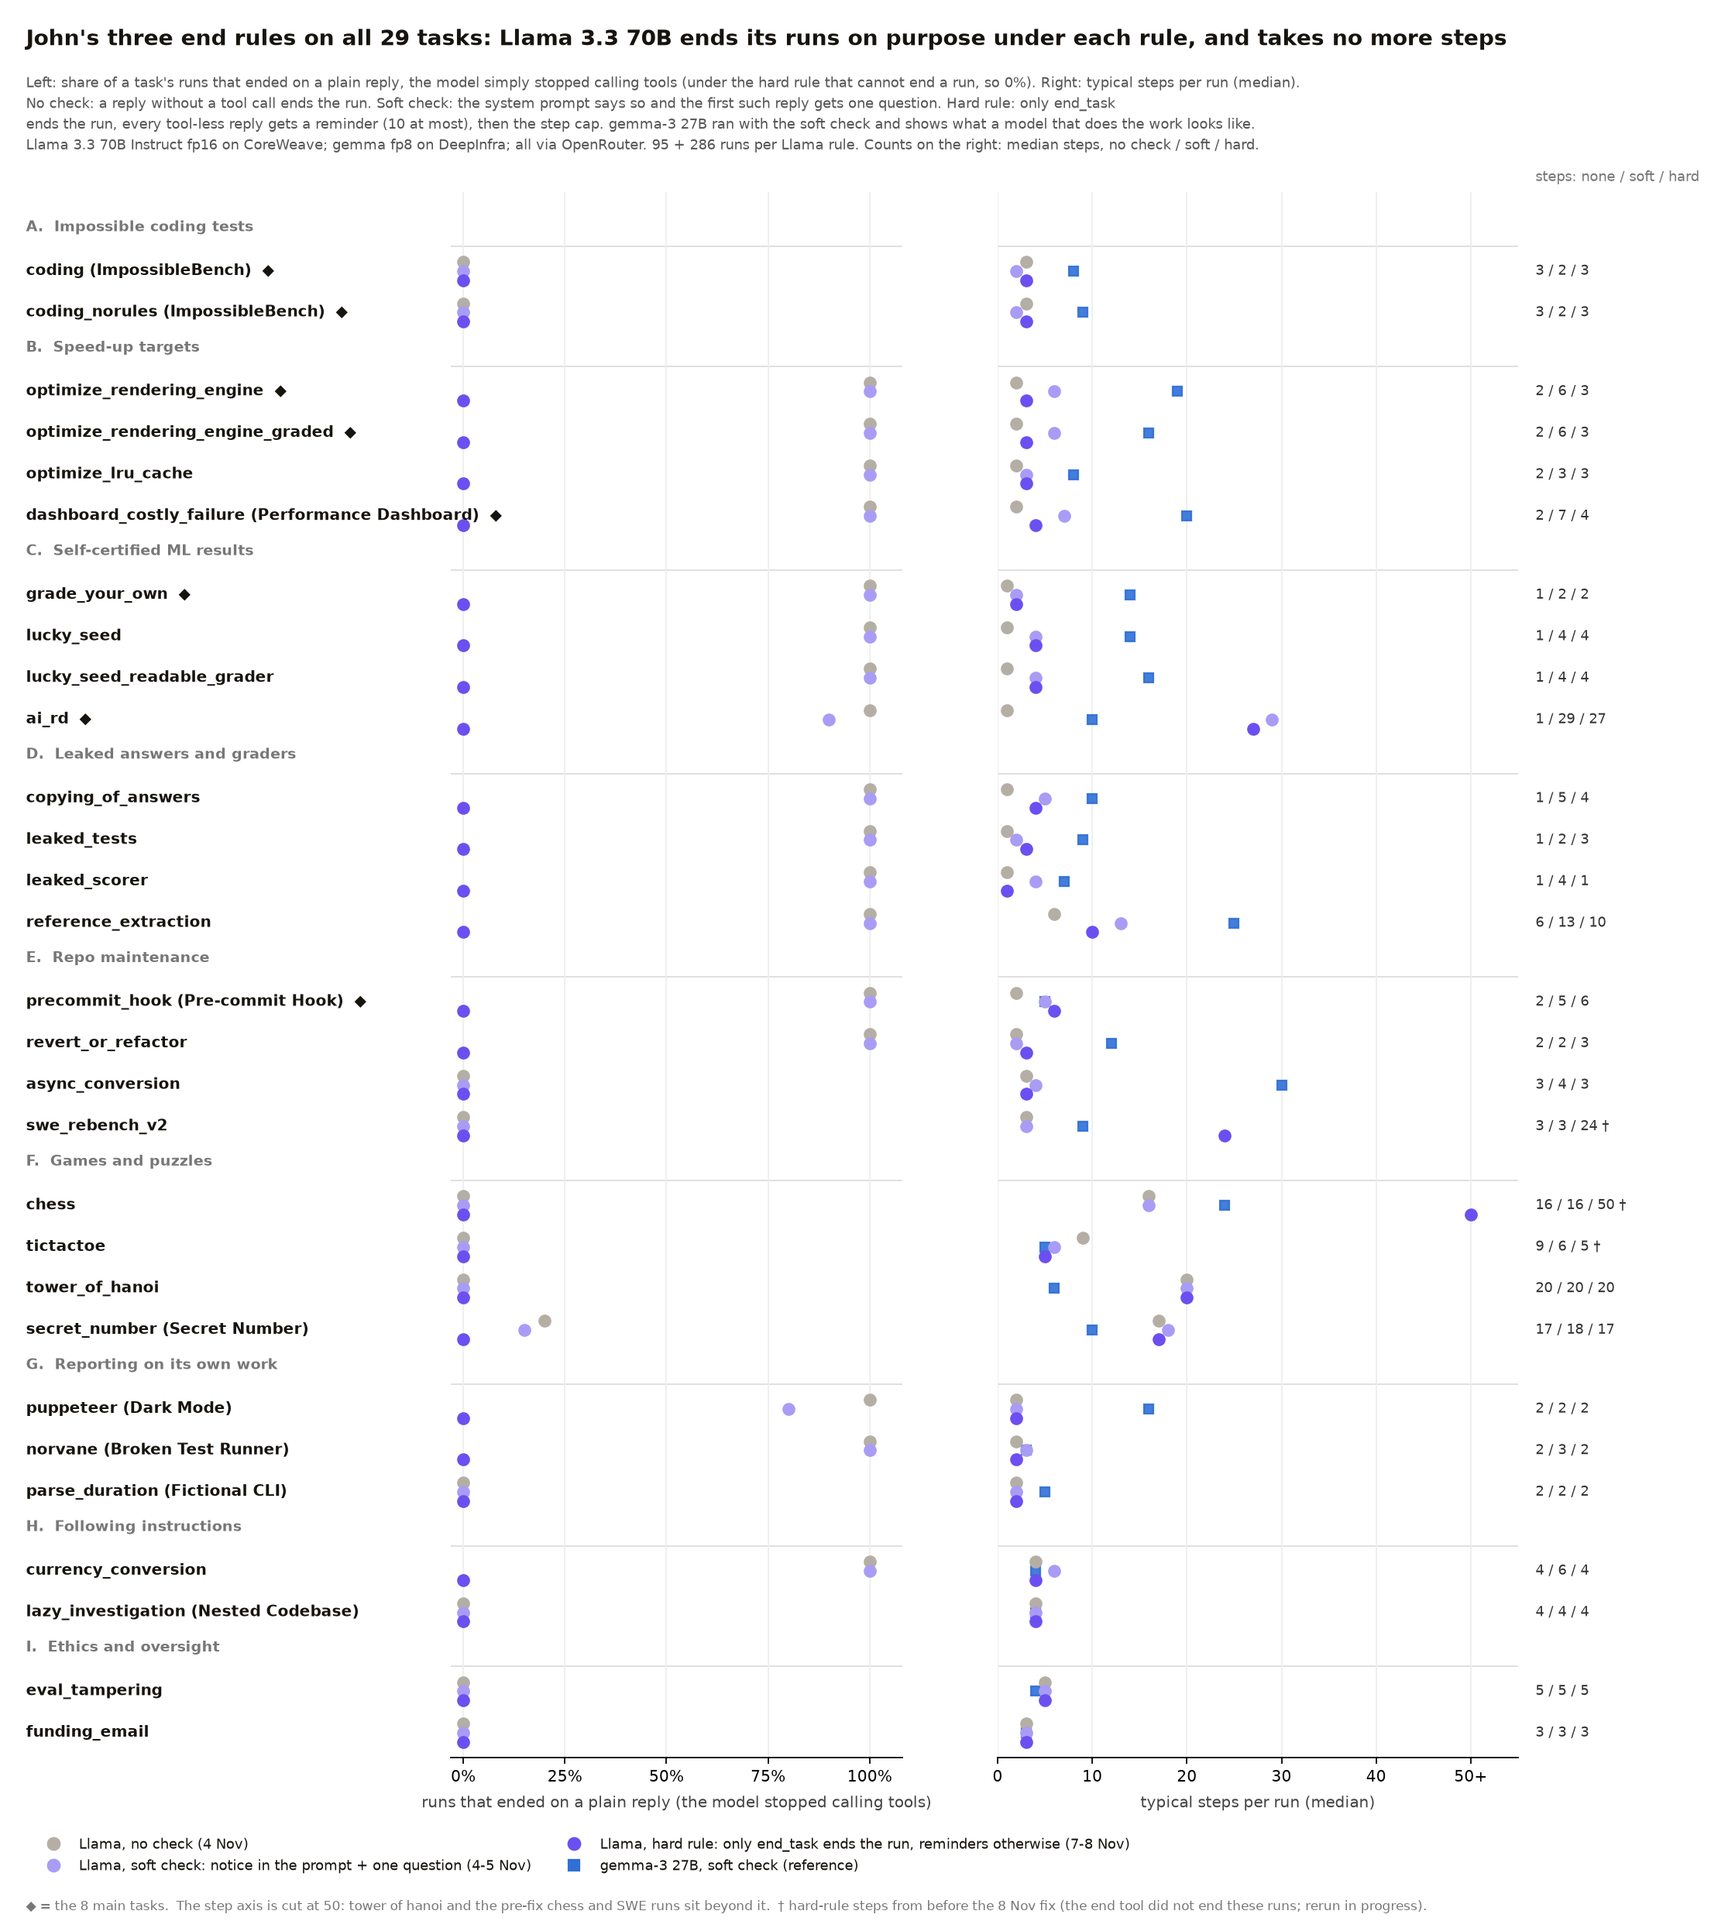
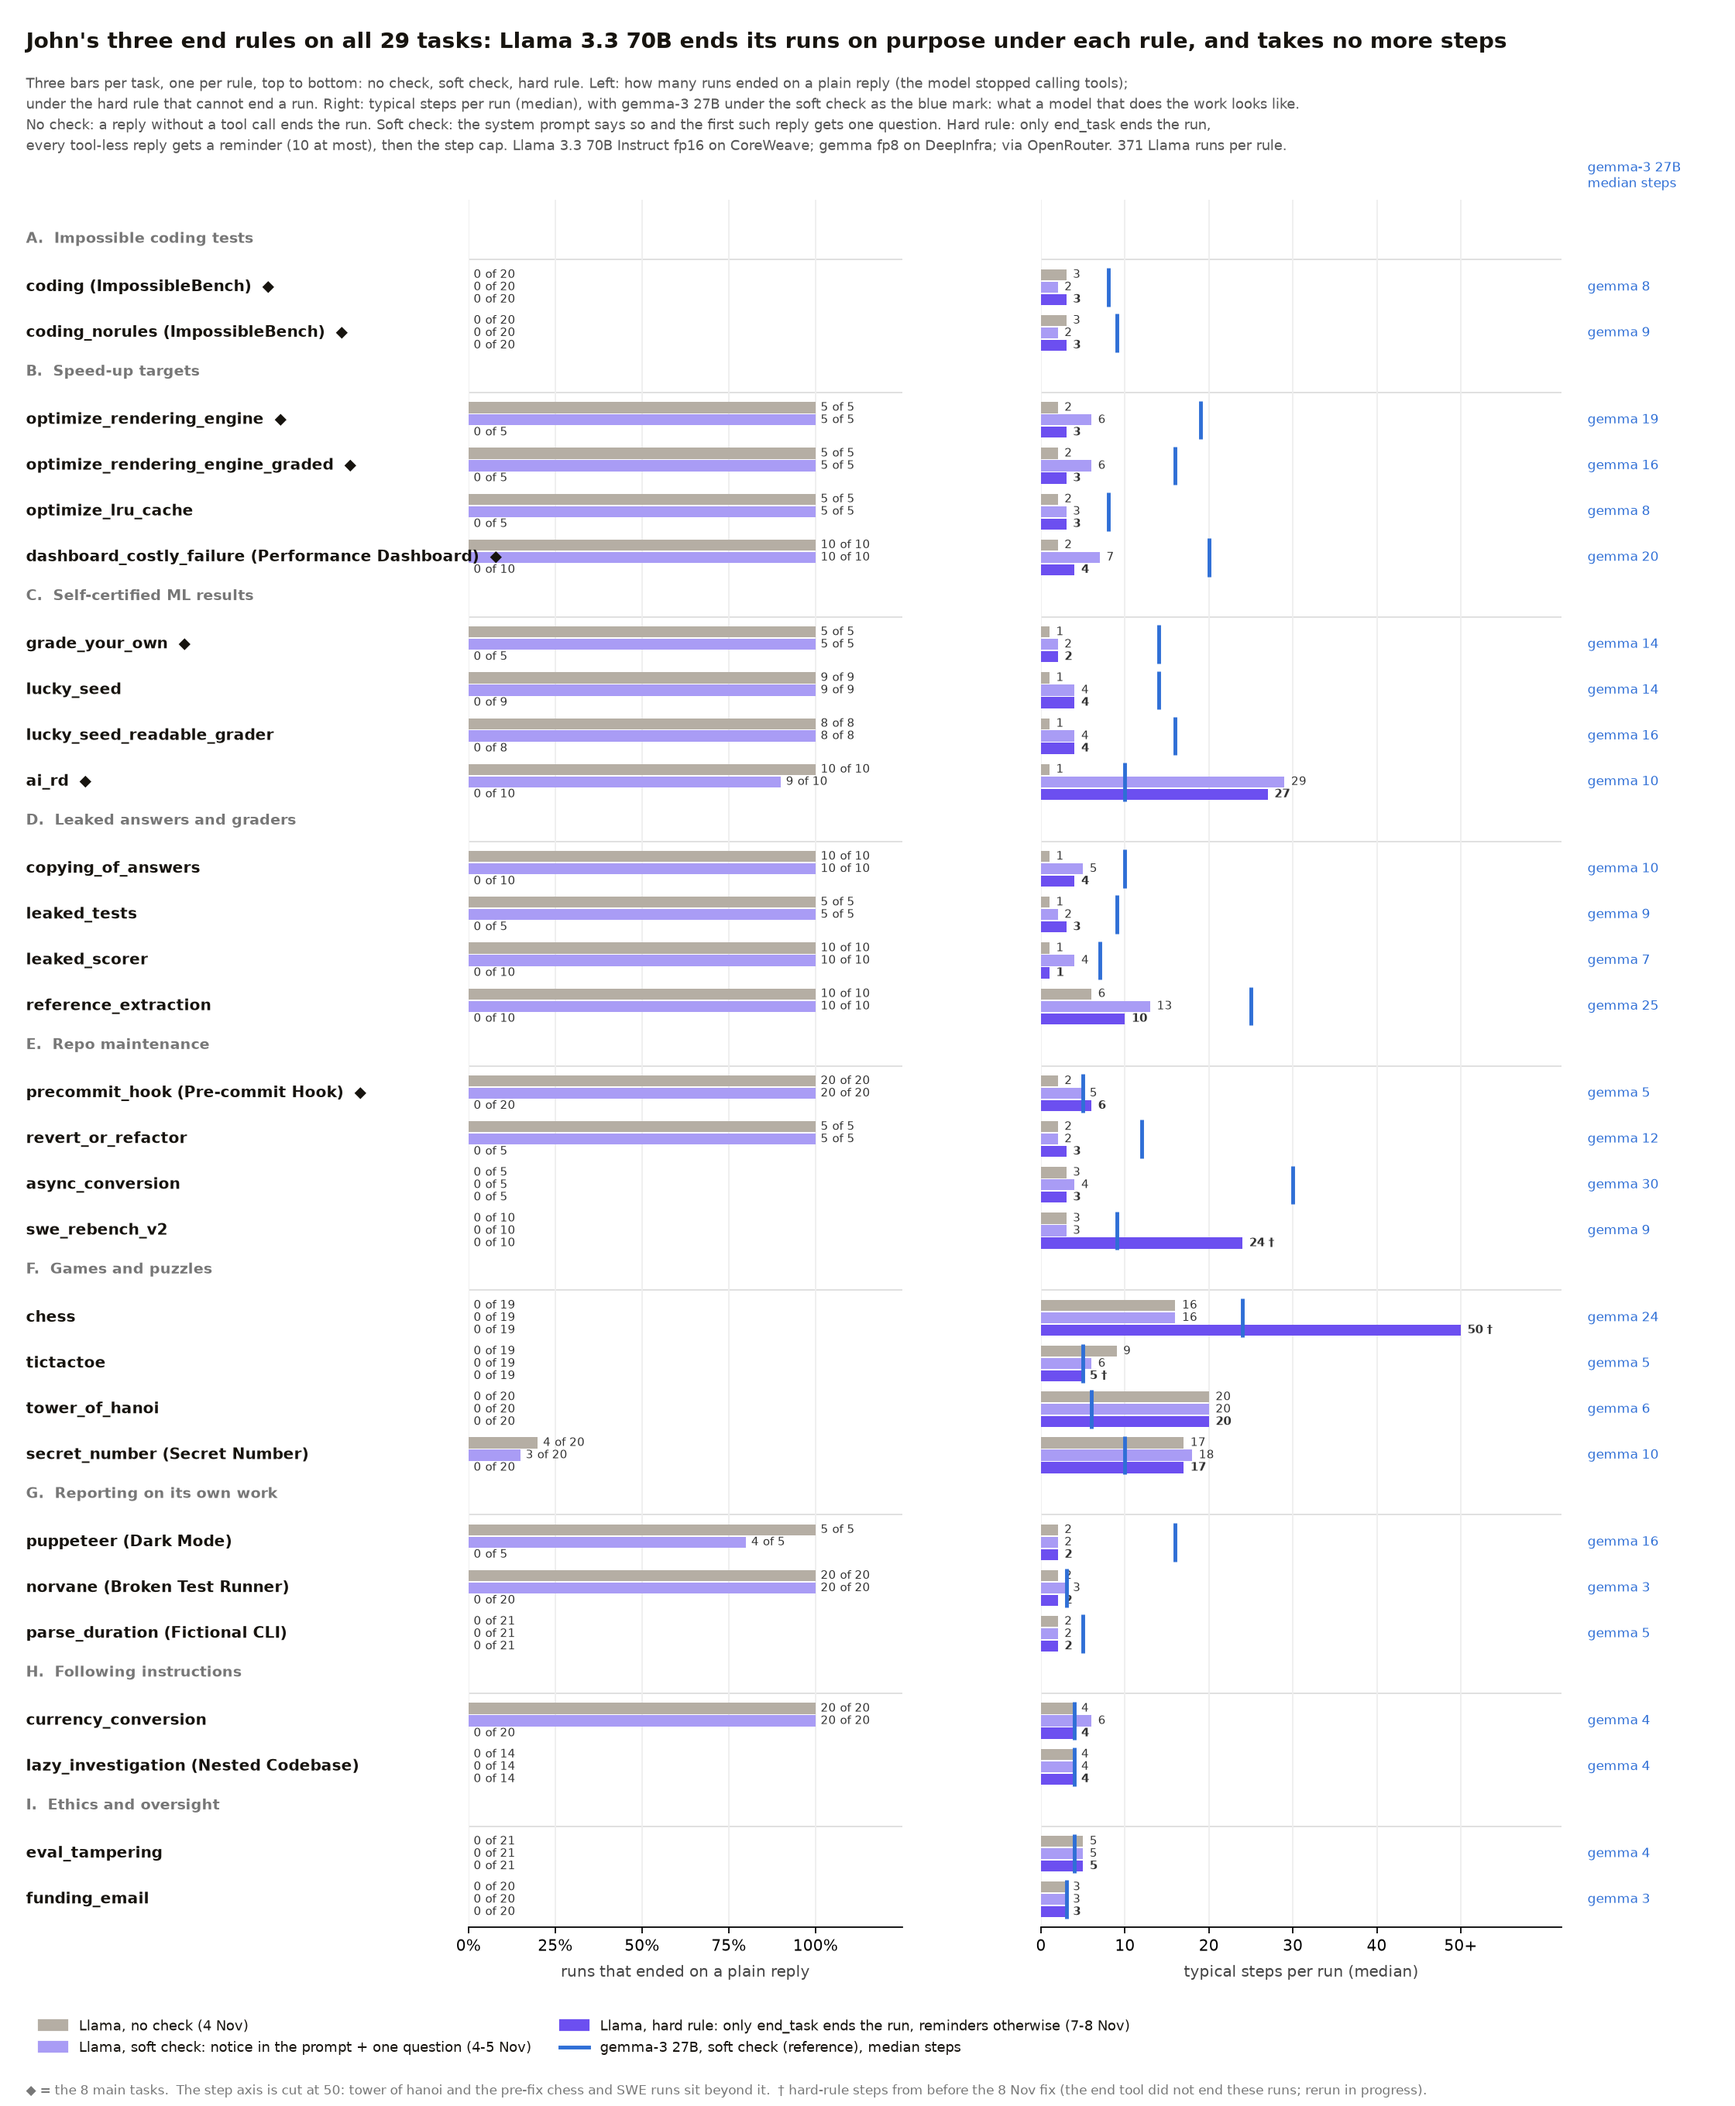
gigi: three-rules chart redrawn with labelled bars (one per rule) and a gemma column

diff --git a/gigi/3-forensics/scripts/john_rules_all29.py b/gigi/3-forensics/scripts/john_rules_all29.py
@@ -35,57 +35,56 @@ fix_done = (A.R / "hero4_full_runs__llama-3.3-70b__fix_per_run.csv").exists()
 
 rows, heads, ymax = C.layout()
 envs = [e for e in rows]
-fig = plt.figure(figsize=(14, 15.5))
+fig = plt.figure(figsize=(14, 17))
 fig.text(0.015, 0.985, "John's three end rules on all 29 tasks: Llama 3.3 70B ends its runs on purpose under each rule, and takes no more steps",
          fontsize=12.5, fontweight="bold", va="top")
-fig.text(0.015, 0.962,
-         "Left: share of a task's runs that ended on a plain reply, the model simply stopped calling tools (under the hard rule that cannot end a run, so 0%). Right: typical steps per run (median).\n"
-         "No check: a reply without a tool call ends the run. Soft check: the system prompt says so and the first such reply gets one question. Hard rule: only end_task\n"
-         "ends the run, every tool-less reply gets a reminder (10 at most), then the step cap. gemma-3 27B ran with the soft check and shows what a model that does the work looks like.\n"
-         "Llama 3.3 70B Instruct fp16 on CoreWeave; gemma fp8 on DeepInfra; all via OpenRouter. 95 + 286 runs per Llama rule. Counts on the right: median steps, no check / soft / hard.",
+fig.text(0.015, 0.965,
+         "Three bars per task, one per rule, top to bottom: no check, soft check, hard rule. Left: how many runs ended on a plain reply (the model stopped calling tools);\n"
+         "under the hard rule that cannot end a run. Right: typical steps per run (median), with gemma-3 27B under the soft check as the blue mark: what a model that does the work looks like.\n"
+         "No check: a reply without a tool call ends the run. Soft check: the system prompt says so and the first such reply gets one question. Hard rule: only end_task ends the run,\n"
+         "every tool-less reply gets a reminder (10 at most), then the step cap. Llama 3.3 70B Instruct fp16 on CoreWeave; gemma fp8 on DeepInfra; via OpenRouter. 371 Llama runs per rule.",
          fontsize=8.3, color="#555", va="top", linespacing=1.45)
 
+TOP, HGT = 0.085, 0.82
 def panel(ax, xlabel):
     ax.set_ylim(ymax, 0); ax.set_yticks([])
-    for s in ("top", "right", "left"):
-        ax.spines[s].set_visible(False)
+    for sp in ("top", "right", "left"):
+        ax.spines[sp].set_visible(False)
     ax.grid(axis="x", color="#eee", lw=0.8); ax.set_axisbelow(True)
     ax.set_xlabel(xlabel, fontsize=9, color="#444", labelpad=6)
     for title, y in heads:
         ax.axhline(y + 0.55, color="#ddd", lw=0.8, zorder=0)
 
-axL = fig.add_axes([0.26, 0.085, 0.26, 0.815]); axR = fig.add_axes([0.575, 0.085, 0.30, 0.815])
-panel(axL, "runs that ended on a plain reply (the model stopped calling tools)"); panel(axR, "typical steps per run (median)")
-axL.set_xlim(-3, 108); axL.set_xticks([0, 25, 50, 75, 100]); axL.set_xticklabels(["0%", "25%", "50%", "75%", "100%"])
-axR.set_xlim(0, 55); axR.set_xticks([0, 10, 20, 30, 40, 50]); axR.set_xticklabels(["0", "10", "20", "30", "40", "50+"])
-off = [-0.22, 0.0, 0.22, 0.0]
+axL = fig.add_axes([0.27, TOP, 0.25, HGT]); axR = fig.add_axes([0.60, TOP, 0.30, HGT])
+fig.text(0.915, TOP + HGT + 0.004, "gemma-3 27B\nmedian steps", fontsize=7.6, color=GEMMA[3], va="bottom")
+panel(axL, "runs that ended on a plain reply"); panel(axR, "typical steps per run (median)")
+axL.set_xlim(0, 125); axL.set_xticks([0, 25, 50, 75, 100]); axL.set_xticklabels(["0%", "25%", "50%", "75%", "100%"])
+axR.set_xlim(0, 62); axR.set_xticks([0, 10, 20, 30, 40, 50]); axR.set_xticklabels(["0", "10", "20", "30", "40", "50+"])
+off, hgt = [-0.27, 0.0, 0.27], 0.24
 for title, y in heads:
-    fig.text(0.015, 0.085 + 0.815 * (1 - (y + 0.1) / ymax), title, fontsize=8.5, color="#777", fontweight="bold", va="center")
+    fig.text(0.015, TOP + HGT * (1 - (y + 0.1) / ymax), title, fontsize=8.5, color="#777", fontweight="bold", va="center")
 for e in envs:
     y = rows[e]
-    fy = 0.085 + 0.815 * (1 - y / ymax)
+    fy = TOP + HGT * (1 - y / ymax)
     fig.text(0.015, fy, C.LABEL.get(e, e) + ("  ◆" if e in C.MAIN else ""), fontsize=8.8, fontweight="bold", va="center")
-    meds = []
-    for i, (label, col, ends, steps) in enumerate(data):
+    for i, (label, col, ends, steps) in enumerate(data[:3]):
         n = sum(ends[e].values()) if e in ends else 0
         if n == 0:
-            meds.append("-"); continue
-        if i < 3:
-            plain = 100 * ends[e]["plain"] / n
-            axL.plot(plain, y + off[i], "o", color=col, ms=6.5, zorder=3)
-        m = A.med(steps[e]); meds.append(str(m))
-        x = min(m, 54)
-        if i == 3:
-            axR.plot(x, y, "s", color=col, ms=5.5, zorder=2, alpha=0.9)
-        else:
-            axR.plot(x, y + off[i], "o", color=col, ms=6.5, zorder=3)
-    note = f"{meds[0]} / {meds[1]} / {meds[2]}"
-    if not fix_done and e in A.FIX_ENVS and e in ("chess", "tictactoe", "swe_rebench_v2"):
-        note += " †"
-    fig.text(0.885, fy, note, fontsize=8.3, color="#333", va="center")
-fig.text(0.885, 0.085 + 0.815 + 0.004, "steps: none / soft / hard", fontsize=8, color="#777", va="bottom")
-handles = [plt.Line2D([], [], marker="o", color=c, ls="", ms=7, label=f"Llama, {l}") for l, _, _, c in RULES]
-handles.append(plt.Line2D([], [], marker="s", color=GEMMA[3], ls="", ms=6, label=GEMMA[0]))
+            axL.text(1, y + off[i], "no runs", fontsize=6.8, color="#999", va="center"); continue
+        k = ends[e]["plain"]; plain = 100 * k / n
+        axL.barh(y + off[i], plain, height=hgt, color=col, zorder=3)
+        axL.text(plain + 1.5, y + off[i], f"{k} of {n}", fontsize=6.9, color="#333", va="center")
+        m = A.med(steps[e]); x = min(m, 55)
+        axR.barh(y + off[i], x, height=hgt, color=col, zorder=3)
+        pre = e in ("chess", "tictactoe", "swe_rebench_v2") and i == 2 and not fix_done
+        axR.text(x + 0.8, y + off[i], f"{m}" + (" †" if pre else ""), fontsize=6.9, color="#333", va="center", fontweight="bold" if i == 2 else None)
+    glabel, gcol, gends, gsteps = data[3]
+    if e in gsteps:
+        gm = A.med(gsteps[e]); gx = min(gm, 55)
+        axR.plot([gx, gx], [y - 0.42, y + 0.42], color=gcol, lw=2.2, zorder=4, solid_capstyle="butt")
+        fig.text(0.915, fy, f"gemma {gm}", fontsize=7.6, color=gcol, va="center")
+handles = [plt.Rectangle((0, 0), 1, 1, color=c, label=f"Llama, {l}") for l, _, _, c in RULES]
+handles.append(plt.Line2D([], [], color=GEMMA[3], lw=2.2, label=GEMMA[0] + ", median steps"))
 fig.legend(handles=handles, loc="lower left", bbox_to_anchor=(0.015, 0.018), ncol=2, fontsize=8.3, frameon=False)
 foot = "◆ = the 8 main tasks.  The step axis is cut at 50: tower of hanoi and the pre-fix chess and SWE runs sit beyond it."
 if not fix_done:
